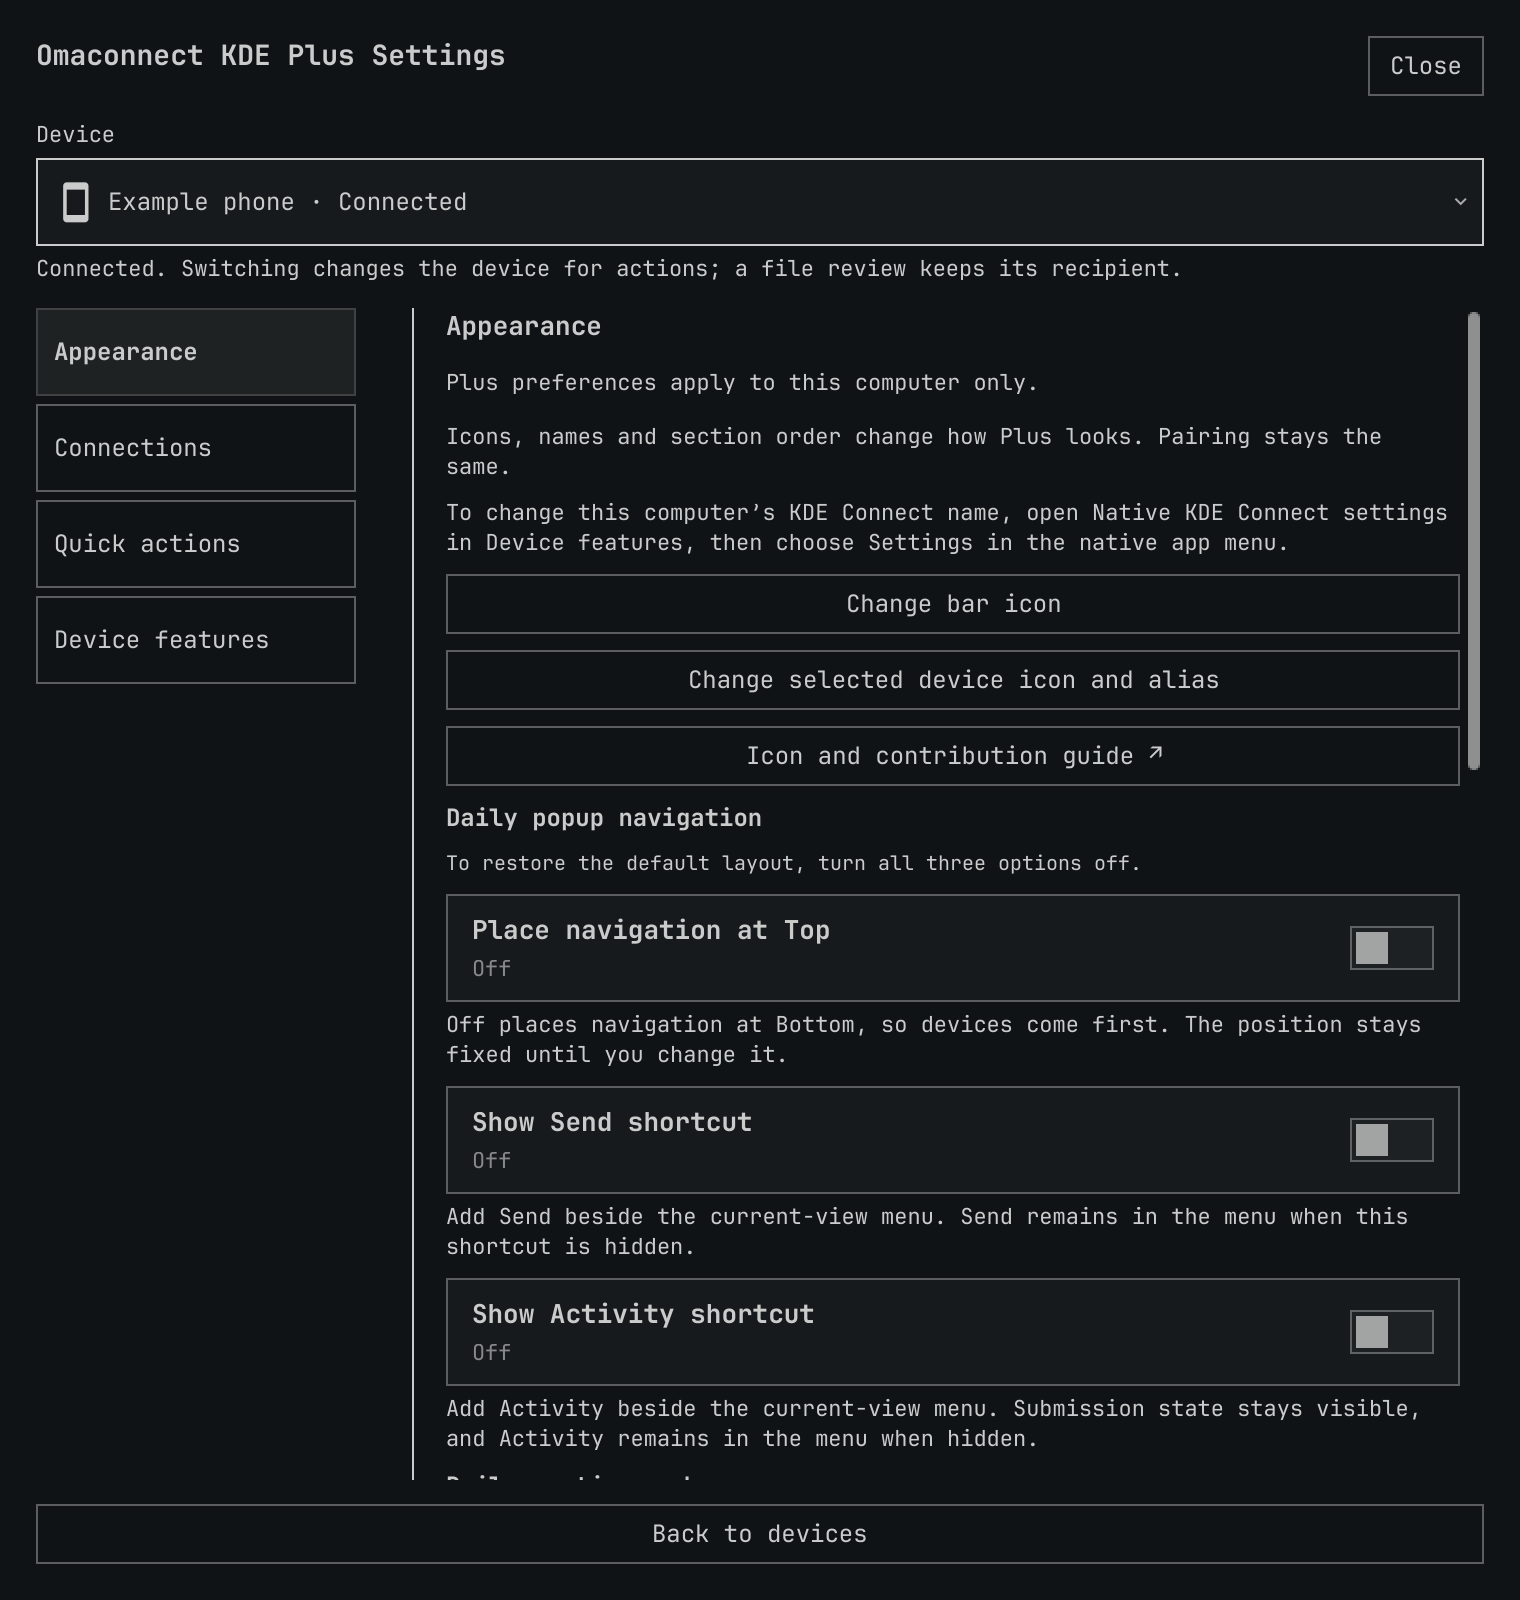
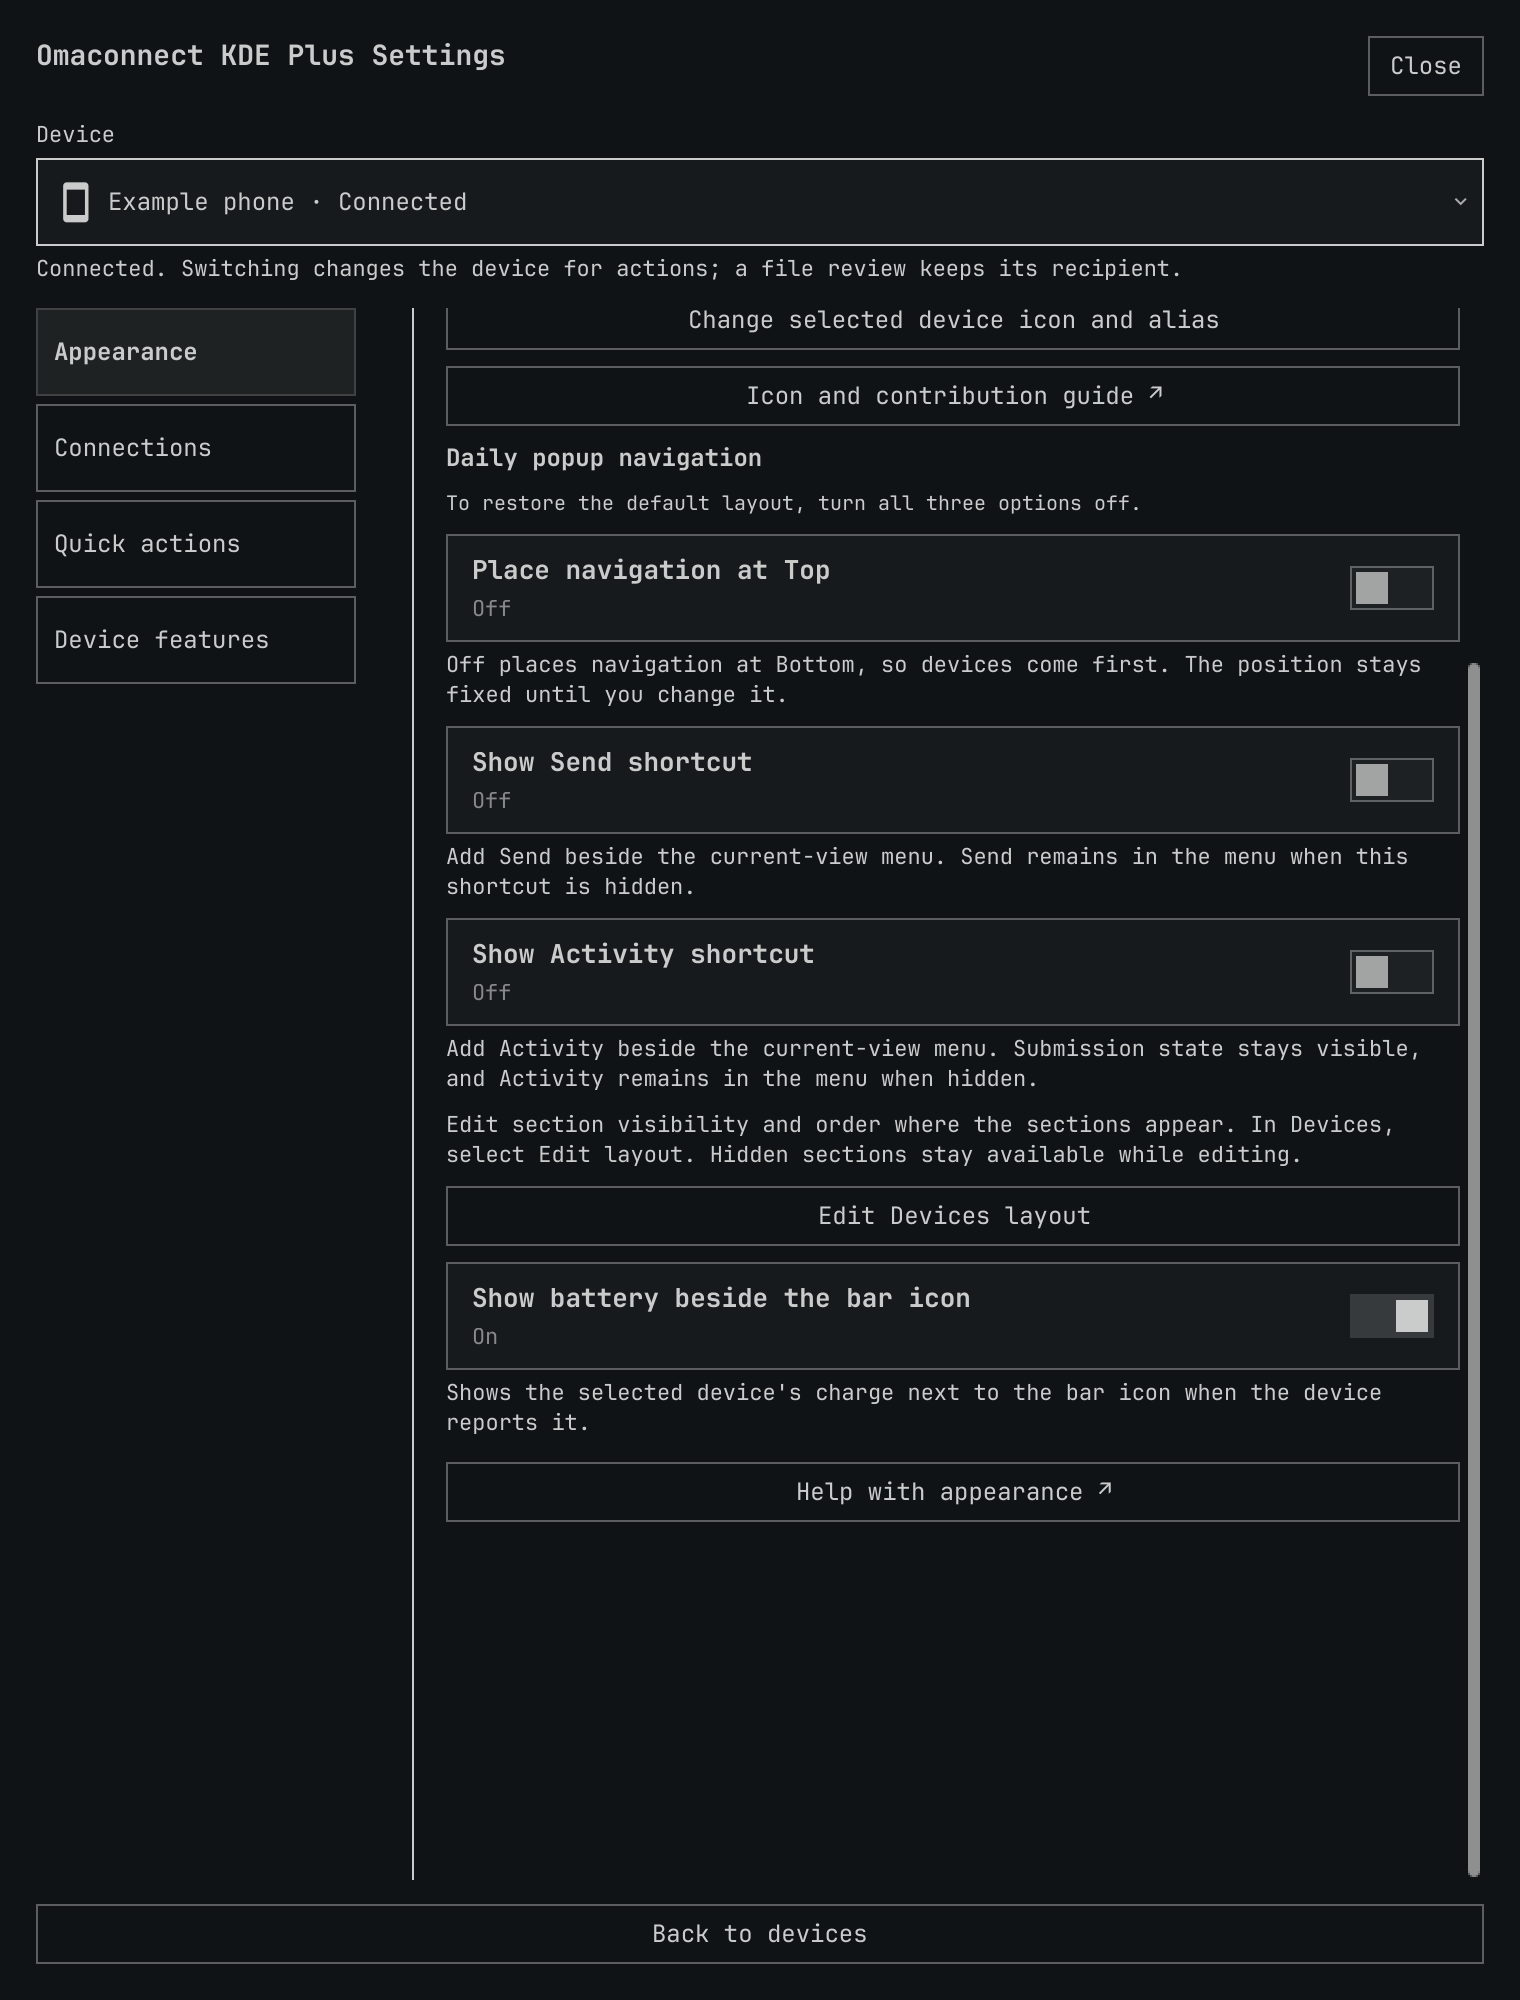
fix: preserve notice Unicode and accessible Send actions

diff --git a/tests/send_window_ui.qml b/tests/send_window_ui.qml
@@ -37,10 +37,11 @@ ShellRoot {
         property int selectionBytes: 0
         property var operations: []
         property var dropCalls: []
+        property var chooseCalls: []
         function stageDroppedFiles(id, urls) { dropCalls=dropCalls.concat([{id:id,urls:urls}]);return true }
         function submitSelection() { test.check(false,"no implicit send") }
         function cancelDraft() { test.check(false,"window close does not cancel draft") }
-        function chooseFiles(id) {}
+        function chooseFiles(id) { chooseCalls=chooseCalls.concat([id]);return true }
         function clearOperations() {}
         function cancelOperation() {}
     }
@@ -59,6 +60,17 @@ ShellRoot {
                 send.openSend();test.phase=1
             }else if(test.phase===1 && send.visible){
                 if(!test.check(send.minimumWidth===480 && send.minimumHeight===360,"send window is resizable with usable minimum bounds"))return
+                var choose=test.find(send.contentItem,"send-window-choose-files")
+                var back=test.find(send.contentItem,"send-window-back-to-devices")
+                if(!test.check(choose && back && choose.Accessible.role===Accessible.Button && back.Accessible.role===Accessible.Button
+                    && choose.Accessible.name==="Choose files" && back.Accessible.name==="Back to devices",
+                    "both persistent window controls expose named accessible button roles"))return
+                choose.Accessible.pressAction()
+                if(!test.check(fakeService.chooseCalls.length===1 && fakeService.chooseCalls[0]==="A",
+                    "accessible Choose files dispatches once to the selected fake peer"))return
+                fakeService.operationBusy=true;choose.Accessible.pressAction()
+                if(!test.check(fakeService.chooseCalls.length===1,"disabled accessible Choose files cannot dispatch"))return
+                fakeService.operationBusy=false
                 var zone=test.find(send.contentItem,"send-window-drop-zone")
                 var drop={hasUrls:true,urls:["file:///tmp/a"],supportedActions:Qt.CopyAction|Qt.MoveAction,accepted:false,action:Qt.IgnoreAction,accept:function(action){this.action=action;this.accepted=true}}
                 if(!test.check(zone && zone.acceptFiles(drop) && drop.action===Qt.CopyAction && fakeService.dropCalls[0].id==="A","persistent send window reuses copy-only review drop zone"))return
@@ -74,7 +86,7 @@ ShellRoot {
                 if(!test.check(fakeService.draftTarget.peerId==="A" && fakeService.selection.length===1,"closing window preserves service draft"))return
                 send.openSend();test.phase=4
             }else if(test.phase===4 && send.visible){
-                send.returnToDevices();test.phase=5
+                test.find(send.contentItem,"send-window-back-to-devices").Accessible.pressAction();test.phase=5
             }else if(test.phase===5 && !send.visible){
                 if(!test.check(test.returns===1 && fakeService.draftTarget.peerId==="A","back to devices returns once without cancel or send"))return
                 if (!test.check(!send.contentItem.LayoutMirroring.enabled, "managed window starts left to right")) return

diff --git a/components/SendWindow.qml b/components/SendWindow.qml
@@ -85,14 +85,16 @@ Window {
             id: actions
             width: parent.width
             spacing: Style.space(8)
-            Kit.Button {
+            SettingsButton {
+                objectName: "send-window-back-to-devices"
                 text: "Back to devices"
                 Accessible.name: text
                 focusable: true
                 foreground: Commons.Color.popups.text
                 onClicked: root.returnToDevices()
             }
-            Kit.Button {
+            SettingsButton {
+                objectName: "send-window-choose-files"
                 text: "Choose files"
                 Accessible.name: text
                 focusable: true

diff --git a/controller/TaskNotificationController.qml b/controller/TaskNotificationController.qml
@@ -34,7 +34,7 @@ Item {
             body: strings.t("notice." + key + ".body"),
             includeDeviceName: includeDeviceName,
             deviceName: includeDeviceName && typeof operation.peerName === "string" && operation.peerName !== operation.peerId
-                ? operation.peerName.slice(0, 128) : ""
+                ? Array.from(operation.peerName).slice(0, 128).join("") : ""
         }
         // ponytail: keep only the latest three waiting outcomes; Activity keeps all 50.
         pending = pending.concat([payload]).slice(-3)

diff --git a/tests/test_task_notifications.py b/tests/test_task_notifications.py
@@ -95,6 +95,29 @@ print('{"ok":true}')
         self.assertLessEqual(len(notice.plain_name('x'*1000)), 128)
 
     @unittest.skipUnless(shutil.which('node'), 'Node absent')
+    def test_opted_in_names_keep_complete_unicode_at_the_length_limit(self):
+        source = (ROOT/'controller/TaskNotificationController.qml').read_text()
+        function = block(source, '    function notify(')
+        names = ['a'*127 + '\U0001f4f1', '\U0001f4f1'*129, 'a'*129]
+        script = """const vm=require('node:vm');
+const input=JSON.parse(require('node:fs').readFileSync(0,'utf8'));
+const context={suppressed:false,includeDeviceName:true,pending:[],
+ strings:{t:key=>key},Qt:{callLater:()=>{}},root:{}};
+vm.createContext(context);vm.runInContext(input.function,context);
+for(const name of input.names) context.notify({state:'request_accepted',peerName:name,peerId:'fixture'});
+process.stdout.write(JSON.stringify(context.pending));
+"""
+        result = subprocess.run(['node', '-e', script], input=json.dumps({'function': function, 'names': names}),
+                                text=True, capture_output=True, timeout=3)
+        self.assertEqual(result.returncode, 0, result.stderr)
+        payloads = json.loads(result.stdout)
+        self.assertEqual(len(payloads), len(names))
+        for payload, name in zip(payloads, names):
+            with self.subTest(name=name):
+                validated = notice.read_request(io.BytesIO(json.dumps(payload).encode()))
+                self.assertEqual(validated['deviceName'], name[:128])
+
+    @unittest.skipUnless(shutil.which('node'), 'Node absent')
     def test_finish_emits_once_after_final_state_and_preserves_evidence(self):
         source = (ROOT/'controller/FileTransferController.qml').read_text()
         function = block(source, '    function finishOperation(')

diff --git a/README.md b/README.md
@@ -1,7 +1,7 @@
 # Omaconnect KDE Plus
 
 A KDE Connect companion for the [Omarchy](https://omarchy.org/) bar: send files,
-run your own quick actions and choose how your devices look. It is a fork of
+browse shared phone folders, run your own quick actions and arrange your daily controls. It is a fork of
 [Jitendra Dara’s OmaConnect](https://github.com/jitendradara12/omaconnect), built
 on [KDE Connect](https://kdeconnect.kde.org/).
 
@@ -9,7 +9,8 @@ on [KDE Connect](https://kdeconnect.kde.org/).
 
 Example devices, files and media are used in the screenshots.
 See the [screenshot gallery](docs/HELP.md#screenshots) for the open device dropdown,
-Send, cancellation, activity, media and all four settings domains.
+phone folders, the layout editor, Send, cancellation, activity, media and all four
+settings domains.
 
 [![Functional checks](https://github.com/ryan-winkler/omaconnect-kde-plus/actions/workflows/validate.yml/badge.svg)](https://github.com/ryan-winkler/omaconnect-kde-plus/actions/workflows/validate.yml)
 [![CodeQL](https://github.com/ryan-winkler/omaconnect-kde-plus/actions/workflows/codeql.yml/badge.svg)](https://github.com/ryan-winkler/omaconnect-kde-plus/actions/workflows/codeql.yml)
@@ -38,18 +39,25 @@ first and add Plus without `--enable`. The plugin ID is `omaconnect.plus`.
   → Quick actions**, enable **Review files before Send** for an explicit review,
   or **Use desktop file chooser** for any local file and batches of up to 100.
   Drops on Devices, the bar icon or Send window always require review and use Copy.
+- **Phone folders:** select **Browse phone files** to open folders shared by KDE
+  Connect in your default file manager. Several advertised folders show a choice.
+  Phone storage access stays with KDE Connect.
 - **Cancel:** stop pending file work from any daily view or the Send window.
   After native acceptance, use KDE Connect's LAN transfer progress Cancel.
   Bluetooth cancellation is not exposed by the current native sharing API.
 - **Honest activity:** “Request accepted” means KDE accepted the transfer;
   delivery stays unknown. A batch keeps its reviewed recipient.
+- **Desktop notices:** see final file-request outcomes while Plus is closed.
+  Device names are omitted by default; enable them separately in Quick actions
+  settings. Native notification history and Do Not Disturb remain with Omarchy.
 - **Quick actions:** add, remove and reorder reviewed shortcuts, including media
   transport, native KDE Connect routes and an optional Quick Share shortcut.
 - **Appearance:** choose a phone, computer, theme icon, symbol or local PNG/SVG,
   and an alias per device. Preview before Apply.
 - **Daily layout:** a compact View menu, top or bottom placement, and optional
   Send and Activity shortcuts. Switch devices in one dropdown. Collapse daily
-  sections and move every section up or down from Settings. Every view stays available.
+  sections. Open **Devices → Edit layout** to change visibility and position on
+  the actual sections, including hidden ones. Every view stays available.
 - **Settings:** Appearance, Connections, Quick actions and Device features, with
   short help next to each control. Sections can be hidden or collapsed.
 - **Device features:** search installed native modules, change their local On/Off

diff --git a/docs/HELP.md b/docs/HELP.md
@@ -97,7 +97,24 @@ Configured remote commands remain explicit actions.
 </details>
 
 <details>
-<summary>Appearance, icons and daily section order</summary>
+<summary>Phone folders and direct layout editing</summary>
+
+Select **Browse phone files** to open folders advertised by KDE Connect. If the
+phone exposes several folders, choose one. **Cancel browse** clears the pending
+choice; phone permissions remain in KDE Connect.
+
+![Phone file controls with two example shared folders, Cancel browse and native settings](screenshots/phone-files.png)
+
+Open **Devices → Edit layout** to change visibility and position on the actual
+sections. Hidden sections remain available in the editor. Availability rules use
+reported capability or configured local tools; they do not confirm delivery.
+
+![Devices in Edit layout mode with visibility policies and position controls](screenshots/edit-layout.png)
+
+</details>
+
+<details>
+<summary>Appearance and icons</summary>
 
 Appearance holds bar and device identity choices and daily navigation preferences.
 
@@ -120,9 +137,11 @@ their controls; they do not connect a VPN.
 ![Connections settings with optional Tailscale, Back to Home and WireGuard visibility controls](screenshots/connections.png)
 
 Quick actions sharing preferences are shown here scrolled to **Use desktop file
-chooser** and **Review files before Send**. The settings are independent.
+chooser**, **Review files before Send**, and task-notice preferences. These
+settings are independent. Device names are excluded from desktop notices by
+default; enable that option only if you want names in native notification history.
 
-![Quick actions settings scrolled to the two file-picker and review preferences](screenshots/sharing-preferences.png)
+![Quick actions sharing, file-review, task-notice and device-name privacy preferences](screenshots/sharing-preferences.png)
 
 Device features lists installed native modules and their observed state, with
 Configure links to the native settings owner.

diff --git a/docs/CONTRACTS.md b/docs/CONTRACTS.md
@@ -257,7 +257,7 @@ its existing 50-operation limit independently of desktop history.
 `summary` (nonempty, at most 256 characters), `body` (nonempty, at most 1024),
 `includeDeviceName` (boolean) and `deviceName` (at most 256). All strings must be
 valid UTF-8 without NUL. False opt-in requires an empty name; QML sends at most
-128 name characters. The helper strips control/bidi formatting from an opted-in
+128 Unicode code points without splitting a surrogate pair. The helper strips control/bidi formatting from an opted-in
 name and substitutes visible angle/ampersand/colon characters so native entity
 decoding cannot revive markup or clickable URLs. Names never enter argv, logs
 or helper output. No IDs, paths, filenames, user messages or provider errors are

diff --git a/CHANGELOG.md b/CHANGELOG.md
@@ -35,6 +35,10 @@ All notable changes are listed here. The format follows
 
 ### Fixed
 
+- The persistent Send window exposes Back and Choose files as named accessible
+  button actions. Disabled Choose files cannot dispatch through accessibility.
+- Opted-in task notices keep complete Unicode characters when a long device name
+  reaches the display limit.
 - Phone-file browsing rechecks current KDE Connect ownership and peer state after
   slow storage probes, before requesting the file-manager handoff.
 - Layout saves use the structured helper result, so a valid success message
